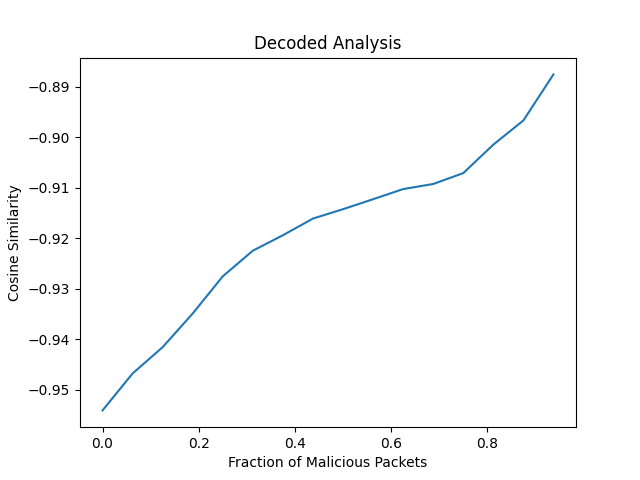
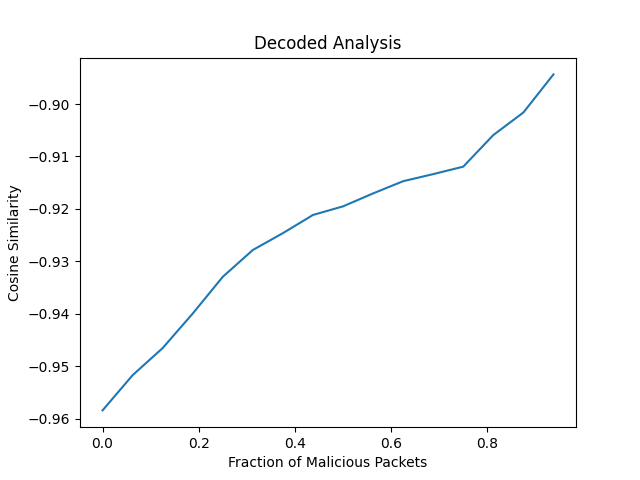
pca autoencoder

diff --git a/autoencoder.py b/autoencoder.py
@@ -7,6 +7,7 @@ from tensorflow.keras import layers as l
 import numpy as np
 import matplotlib.pyplot as plt
 import copy
+from enum import Enum
 
 import constants
 import util
@@ -24,11 +25,19 @@ _LOSSFUNC = keras.losses.CosineSimilarity()
 _KERNELINIT = keras.initializers.RandomNormal(stddev=0.02)
 _METRICS = [keras.metrics.MeanAbsoluteError(),
             keras.losses.CosineSimilarity(),]
-_NDATA = 1000 if gv.DEBUG else None
+_NDATA = 100000 if gv.DEBUG else None
 
 _UPSAMPLE_KW = {"strides": 1, "up_size": 2}
 _DOWNSAMPLE_KW = {"strides": 2, "up_size": 1}
 
+class spec_nn(Enum):
+    PCA = 0
+    FULL = 1
+
+specificNnSuffix = {
+    spec_nn.PCA : "PCA",
+    spec_nn.FULL : "All Dimensions"
+}
 
 def conv_block(
     x,
@@ -81,31 +90,28 @@ class autoencoder():
         return func(data, pred)
 
     @staticmethod
-    def _enc_file_name(dir):
-        return dir + autoencoder.encoderName + keras_model_paths.extensions.kerasModel
+    def _enc_file_name(suffix, dir):
+        return dir + autoencoder.encoderName + suffix + keras_model_paths.extensions.kerasModel
     @staticmethod
-    def _dec_file_name(dir):
-        return dir + autoencoder.decoderName + keras_model_paths.extensions.kerasModel
+    def _dec_file_name(suffix, dir):
+        return dir + autoencoder.decoderName + suffix + keras_model_paths.extensions.kerasModel
 
-    def save(self, dir = _defaultDir):
-        self.encoder.save(autoencoder._enc_file_name(dir))
-        self.decoder.save(autoencoder._dec_file_name(dir))
+    def save(self,suffix,  dir = _defaultDir):
+        self.encoder.save(autoencoder._enc_file_name(suffix, dir))
+        self.decoder.save(autoencoder._dec_file_name(suffix, dir))
 
     @staticmethod
-    def load_ae(dir = _defaultDir):
+    def load_ae(suffix, dir = _defaultDir):
         return autoencoder(
-            keras.models.load_model(autoencoder._enc_file_name(dir)),
-            keras.models.load_model(autoencoder._dec_file_name(dir))
+            keras.models.load_model(autoencoder._enc_file_name(suffix, dir)),
+            keras.models.load_model(autoencoder._dec_file_name(suffix, dir))
         )
 
     @staticmethod
-    def create_ae(nInputs):
+    def create_ae(nInputs, featSizeFactor):
         aeLayerDefArgs = {"use_bn":True}
-        visualFeatSizeFactor = .68
-        quantitativeSizeFactor = .8
 
         inLayer = l.Input(shape=(NTIMESTEPS, nInputs))
-        featSizeFactor = visualFeatSizeFactor #.7 and 14 give -.96; .68 and 12 give -.95
         featSizesDec = [nInputs]
         for i in range(4):
             featSizesDec.append(np.round(featSizesDec[-1]*featSizeFactor).astype(int))
@@ -133,19 +139,19 @@ class autoencoder():
         return autoencoder(encoder, decoder)
 
 
-def train_ae(ae:autoencoder, windows):
+def train_ae(ae:autoencoder, windows, suffix):
     stepsPerEpoch = 2 if gv.DEBUG else None
-    epochs = 2 if gv.DEBUG else 10
+    epochs = 2 if gv.DEBUG else 50
     useValidation=True
 
-    callbacks = [keras.callbacks.EarlyStopping(monitor="val_loss" if useValidation else "loss", patience=1)]
+    callbacks = [keras.callbacks.EarlyStopping(monitor="val_loss" if useValidation else "loss", patience=3)]
     ae.model.fit(
         windows, windows, validation_split=.25 if useValidation else 0., callbacks=callbacks,
         steps_per_epoch=stepsPerEpoch, epochs=epochs
     )
 
     if not gv.DEBUG:
-        ae.save()
+        ae.save(suffix)
     return ae
 
 def benign_malicious_latent(ae:autoencoder, benign, hetero):
@@ -154,25 +160,30 @@ def benign_malicious_latent(ae:autoencoder, benign, hetero):
     # da.kolm_smirnov_analysis(benignOut, heteroOut, "Benign versus Malicious")
     return
 
+def analyze(nw:tdp.network_window, suffix, fit, load, featSizeFactor, bucketsRngArgs):
+    ae = autoencoder.load_ae(suffix) if load else autoencoder.create_ae(nw.windows.shape[-1], featSizeFactor)
+    print(ae.encoder.summary())
+    print(ae.decoder.summary())
+    if fit: ae = train_ae(ae, nw.get_n_malicious(0), suffix)
 
+    # benign_malicious_latent(ae, benign, hetero)
+    metric = keras.losses.CosineSimilarity()
+    # da.line_plot_n_malicious(ae, nw, metric, ylabel="Cosine Similarity", name="Decoded Analysis")
+    lossDf = da.get_lossDf(ae, nw,)
+    da.bucket_probs(lossDf, suffix=suffix, rngArgs=bucketsRngArgs,)
+    # da.dist_plots(lossDf)
+    return ae
 
 if __name__ == "__main__":
     if gv.DEBUG: gv.enable_tf_debug()
     nw = tdp.network_window.get_window_data(NTIMESTEPS, firstN=_NDATA)
-    benign = nw.get_homogeneous_benign()
-    hetero = nw.get_only_heterogeneous()
-
     load = True
     # load = False
     fit = False
     # fit=True
-
-    ae = autoencoder.load_ae() if load else autoencoder.create_ae(nw.windows.shape[-1])
-    if fit: ae = train_ae(ae, benign.windows)
-
-    # benign_malicious_latent(ae, benign, hetero)
-    metric = keras.losses.CosineSimilarity()
-    da.line_plot_n_malicious(ae, nw, metric, ylabel="Cosine Similarity", name="Decoded Analysis")
+    # ae = analyze(nw, specificNnSuffix[spec_nn.FULL], fit, load, featSizeFactor=.68, bucketsRngArgs=None)
+    # nw.perform_pca()
+    ae = analyze(nw, specificNnSuffix[spec_nn.PCA], fit, load, featSizeFactor=1., bucketsRngArgs=(-1,-.6999,.01))
 
     plt.show()
     exit()

diff --git a/distribution_analysis.py b/distribution_analysis.py
@@ -1,3 +1,6 @@
+import math
+
+import pandas as pd
 import seaborn as sns
 import matplotlib.pyplot as plt
 import numpy as np
@@ -94,3 +97,91 @@ def line_plot_n_malicious(
     if not gv.DEBUG:
         plt.savefig(fp.images.directory.distributionAnalysis + name.replace(" ", "") + ".png")
     return vals
+
+def get_losses_per_batch(
+        ae:autoencoder.autoencoder,
+        arr3d:np.ndarray,
+        nGroups, metricName:str = "loss"
+):
+    step = arr3d.shape[0]/nGroups
+    print("Doing %d steps and %d groups for %d samples." %(step, nGroups, arr3d.shape[0]))
+    end=0.
+    losses = []
+    for i in range(0,nGroups):
+        pivot1 = int(end)
+        end += step
+        pivot = min(int(end), arr3d.shape[0])
+        # pivot = i+1
+        metrics = ae.model.evaluate(arr3d[pivot1:pivot], arr3d[pivot1:pivot], return_dict=True, verbose=0)
+        losses.append(metrics[metricName])
+    return losses
+
+def get_lossDf(
+        ae: autoencoder.autoencoder,
+        networkWindow: tdp.network_window,
+        metric="loss", nGroups=20 if gv.DEBUG else 100,
+    ):
+    nMaliciouses = [0,8,16] if gv.DEBUG else [i for i in range(0,17)] # [0,4,8,12,16]
+    df = {}
+    for nMalicious in nMaliciouses:
+        print("%s malicious packets" %(nMalicious))
+        df[nMalicious] = get_losses_per_batch(ae, networkWindow.get_n_malicious(nMalicious), nGroups, metricName=metric)
+
+    df = pd.DataFrame(df)
+    return df
+
+def dist_plots(lossDf:pd.DataFrame, name="", ylabel="",
+):
+    lossDf.sort_index(inplace=True)
+    ax = sns.displot(lossDf, kind="hist", multiple='stack')
+    ax = sns.displot(lossDf, kind="kde", fill=True, legend="# malicious")
+    ax.set_xlabels("Cosine Similarity")
+    # ax.suptitle("Distribution of Frame (Size 16) With Number of Malicious Packets")
+    ax.set(xlim=(-1,1))
+    plt.title("Distribution of Frame (Size 16) With Number of Malicious Packets")
+    # plt.legend(nMaliciouses, "Number of Malicious Packets")
+    # ax.set_xlabel("Cosine Similarity")
+    # sns.despine(ax=ax, top=False, right=False)
+
+    return ax
+
+class bucket:
+    def __init__(self, start, stop, count=0):
+        self.start = start
+        self.stop = stop
+        self.count =  count
+        self.rng = (start,stop)
+
+def get_bucket_dict(start, stop, step):
+    return {key: bucket(start, start + step) for key in np.arange(start,stop,step)}
+
+
+def bucket_probs(
+        lossDf:pd.DataFrame, suffix="", rngArgs = (-1,1.00001,.01)
+):
+    if rngArgs is None:
+        rngArgs = (-1, 1.00001, .01)
+    if suffix is None:
+        suffix = ""
+    dfCounts = pd.DataFrame()
+    bins = np.arange(*rngArgs)
+    for col in lossDf.columns:
+        dfCounts[col] = pd.cut(lossDf[col], bins=bins, retbins=True)[0].value_counts()
+
+    dfCounts.sort_index(inplace=True)
+    fig = plt.figure(figsize=(9.5,6), **_defPlotKwArgs)
+    ax = sns.heatmap(dfCounts)
+    ax.set_title("Heatmap for N/16 Malicious Packets using " + suffix)
+    ax.set_ylabel("Cosine Similarity Range")
+    ax.set_xlabel("Number of Malicious Packets")
+
+    name = "cosSimHeatMapNormedProb" + suffix
+    plt.savefig(fp.images.directory.distributionAnalysis + name + ".png")
+
+    normedDf = dfCounts.div(dfCounts.sum(axis=1), axis=0).dropna()
+    colSize = len(normedDf.columns)
+    pivot = math.ceil(colSize / 2)
+
+    normedDf[normedDf.columns[:pivot]].to_latex(fp.miscDir + name + ".tex", index=True, float_format="%.3f")
+    normedDf[normedDf.columns[pivot:]].to_latex(fp.miscDir + name + "rest.tex", index=True, float_format="%.3f")
+    return normedDf

diff --git a/timeDataProcessing.py b/timeDataProcessing.py
@@ -1,6 +1,8 @@
 import numpy as np
 import pandas as pd
 from sklearn import preprocessing as skpp
+from sklearn.decomposition import PCA
+
 from enum import Enum
 
 import util
@@ -42,6 +44,16 @@ class network_window:
         self.windows = packetWindows
         self.nMalicious = nMaliciousGivenWindow
         self.windowType = self.get_window_type()
+
+    def perform_pca(self):
+        pca = PCA(0.99, random_state=42)
+        shape = self.windows.shape
+        self.windows = np.reshape(self.windows,(-1, self.windows.shape[-1]))
+        pca.fit(self.get_n_malicious(0))
+        self.windows = pca.transform(self.windows)
+        self.windows = np.reshape(self.windows, shape[:2] + (self.windows.shape[-1],))
+        print("%d PCA components" %(self.windows.shape[-1]))
+        return
 
     def get_window_type(self):
         if self.nMalicious.sum(axis=-1) == 0:
